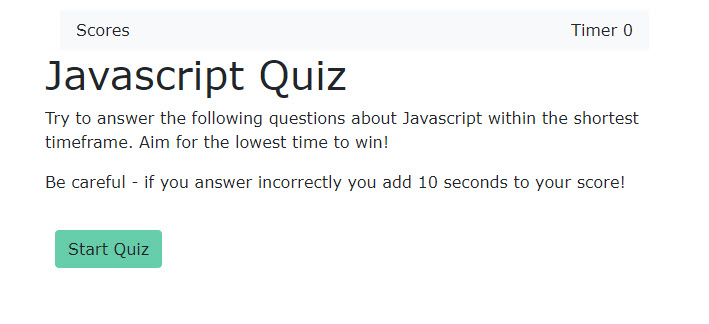
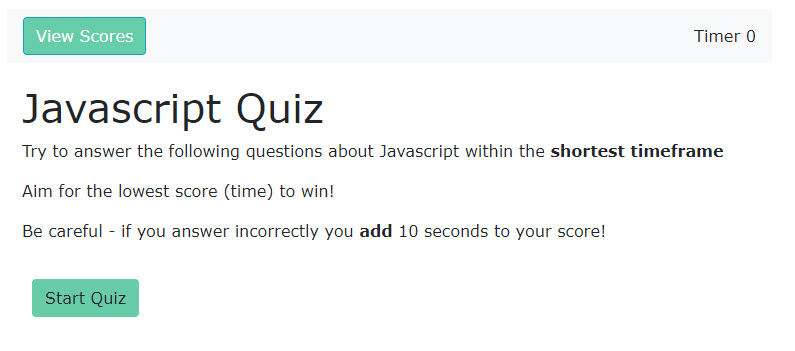
fixed up storage and play again

diff --git a/index.html b/index.html
@@ -17,91 +17,101 @@
 
 <body>
   <!-- Header Navbar -->
-  <div class="container-fluid">
-    <div class="row">
-      <div class="col">
-        <nav class="navbar navbar-expand-lg navbar-dark bg-light">
-          <a>Scores</a>
-          <li class="nav-right ml-auto">
-            <a>Timer</a> <a id="count">0</a>
-          </li>
-          </ul>
-        </nav>
-      </div>
-    </div>
-  </div>
-  <!-- Main screen -->
-
   <div class="row">
     <div class="col">
-      <div id="home">
-        <h1>Javascript Quiz</h1>
-        <p>Try to answer the following questions about Javascript within the shortest timeframe. Aim for the lowest
-          time to win!</p>
-        <p>Be careful - if you answer incorrectly you add 10 seconds to your score!</p>
-        <button id="start-btn" class="start-btn btn">Start Quiz</button>
-      </div>
+      <nav class="navbar navbar-expand-lg navbar-dark bg-light">
+        <button type="button" class="btn btn-info" id=viewScores href="#">View Scores</a></button>
+        <li class="nav-right ml-auto">
+          <a>Timer</a> <a id="count">0</a>
+        </li>
+        </ul>
+      </nav>
     </div>
   </div>
 
-
-  <!-- Questions Screen -->
-  <div id="questions">
-    <div class="row">
-      <div class="wrapper">
+  <div class="container-fluid">
+    <div class="wrapper">
+      <!-- Main screen -->
+      <div class="row">
         <div class="col">
-          <p id="question">QuestionText</p>
-          <ul id="answer" class="btn-grid">
-            <li data-index='0' id="ans-a" class="btn">Answer A</li>
-            <li data-index='1' id="ans-b" class="btn">Answer B</li>
-            <li data-index='2' id="ans-c" class="btn">Answer C</li>
-            <li data-index='3' id="ans-d" class="btn">Answer D</li>
-          </ul>
-          <div id="response"></div>
+          <div id="home">
+            <h1>Javascript Quiz</h1>
+            <p> Try to answer the following questions about Javascript within the <strong>shortest timeframe</strong></p>
+            <p> Aim for the lowest score (time) to win!</p>
+            <p>Be careful - if you answer incorrectly you <strong>add</strong> 10 seconds to your score!</p>
+            <button id="start-btn" class="start-btn btn">Start Quiz</button>
+          </div>
         </div>
       </div>
     </div>
-  </div>
-  <!-- Results Screen -->
-  <div id="results">
-    <div class="row">
+
+    <!-- Questions Screen -->
+    <div id="questions">
       <div class="wrapper">
-        <div class="col">
-          <div class="scores">
+        <div class="row">
+          <div class="col">
+            <p id="question">QuestionText</p>
+            <ul id="answer" class="btn-grid">
+              <li data-index='0' id="ans-a" class="btn">Answer A</li>
+              <li data-index='1' id="ans-b" class="btn">Answer B</li>
+              <li data-index='2' id="ans-c" class="btn">Answer C</li>
+              <li data-index='3' id="ans-d" class="btn">Answer D</li>
+            </ul>
+            <div id="response"></div>
+          </div>
+        </div>
+      </div>
+    </div>
+    <!-- Results Screen -->
+    <div id="results">
+      <div class="wrapper">
+        <div class="row">
+          <div class="col">
             <h3>You've Finished!</h3>
             <p>
-              <a> Your Final Score is:</a><a id="final-score"></a>
+              <a> Your Final Score is: </a><a id="final-score"></a>
             </p>
             <form class="form-group">
               <label for="user">Enter your name:</label>
-              <input type="text" id="userName"><span id="user-first-name"></span>
+              <input type="text" id="userName"> </input>
               <button type="button" id="save" class="btn btn-info btn-sm saveBtn">Save Score</button>
+              <button type="button" id="play-btn" class="btn btn-info btn-sm playBtn">Play Again</button>
             </form>
           </div>
         </div>
       </div>
     </div>
-  </div>
 
-  <!-- Linking JQuery -->
-  <script src="https://ajax.googleapis.com/ajax/libs/jquery/3.4.1/jquery.min.js"></script>
+    <!-- List Scores Screen -->
+    <div id="listScores">
+      <div class="wrapper">
+        <div class="row">
+          <div class="col">
+            <h3>Your Scores Are:</h3>
+            <div id="scoresList"></div>
+          </div>
+        </div>
+      </div>
+    </div>
+    <!-- Linking JQuery -->
+    <script src="https://ajax.googleapis.com/ajax/libs/jquery/3.4.1/jquery.min.js"></script>
 
-  <!-- Linking Bootstrap Javascript -->
-  <script src="https://code.jquery.com/jquery-3.5.1.slim.min.js"
-    integrity="sha384-DfXdz2htPH0lsSSs5nCTpuj/zy4C+OGpamoFVy38MVBnE+IbbVYUew+OrCXaRkfj"
-    crossorigin="anonymous"></script>
-  <script src="https://cdn.jsdelivr.net/npm/popper.js@1.16.1/dist/umd/popper.min.js"
-    integrity="sha384-9/reFTGAW83EW2RDu2S0VKaIzap3H66lZH81PoYlFhbGU+6BZp6G7niu735Sk7lN"
-    crossorigin="anonymous"></script>
-  <script src="https://stackpath.bootstrapcdn.com/bootstrap/4.5.2/js/bootstrap.min.js"
-    integrity="sha384-B4gt1jrGC7Jh4AgTPSdUtOBvfO8shuf57BaghqFfPlYxofvL8/KUEfYiJOMMV+rV"
-    crossorigin="anonymous"></script>
+    <!-- Linking Bootstrap Javascript -->
+    <script src="https://code.jquery.com/jquery-3.5.1.slim.min.js"
+      integrity="sha384-DfXdz2htPH0lsSSs5nCTpuj/zy4C+OGpamoFVy38MVBnE+IbbVYUew+OrCXaRkfj"
+      crossorigin="anonymous"></script>
+    <script src="https://cdn.jsdelivr.net/npm/popper.js@1.16.1/dist/umd/popper.min.js"
+      integrity="sha384-9/reFTGAW83EW2RDu2S0VKaIzap3H66lZH81PoYlFhbGU+6BZp6G7niu735Sk7lN"
+      crossorigin="anonymous"></script>
+    <script src="https://stackpath.bootstrapcdn.com/bootstrap/4.5.2/js/bootstrap.min.js"
+      integrity="sha384-B4gt1jrGC7Jh4AgTPSdUtOBvfO8shuf57BaghqFfPlYxofvL8/KUEfYiJOMMV+rV"
+      crossorigin="anonymous"></script>
 
-  <!-- Linking questions file  -->
-  <script src="./questions.js"></script>
+    <!-- Linking questions file  -->
+    <script src="./questions.js"></script>
 
-  <!-- Linking functionality  -->
-  <script src="./script.js"></script>
+    <!-- Linking functionality  -->
+    <script src="./script.js"></script>
 
 
 </body>

diff --git a/style.css b/style.css
@@ -5,12 +5,16 @@
   font-family: Verdana, Arial, Tahoma, Serif;
 }
 
+#header {
+  align-content: left;
+}
+
 body {
   padding: 10px;
   /* justify-content: center; */
   height: 100%;
   width: 100%;
-  align-items: center;
+  /* align-items: center; */
 }
 
 .row {
@@ -22,34 +26,37 @@ body {
   display: inline;
 }
 
+#scoresList {
+  margin-left: 40px;
+}
+
 .nav-link {
   align-items: left;
   padding: 0;
   margin: 0;
 }
 
-.container-fluid {
-  width: auto;
-  align-items: center;
-}
-
 #userName {
   margin-bottom: 20px; 
 }
 
-#answer.btn-grid {
+.col {
+  margin-bottom: 20px;
+}
+.btn-grid {
   margin: 20px;
   border-radius: 5px;
   padding: 10px;
   gap: 10px;
   box-shadow: 0 0 10px;
   display: grid;
-  width: auto;
+  width: 300px;
 }
 
 .btn {
   background-color: mediumaquamarine;
   text-align: left;
+  width: auto;
 }
 
 .start-btn {

diff --git a/readme.md b/readme.md
@@ -4,7 +4,7 @@
 
 ```
 AS A coding bootcamp student
-I WANT to take a timed quiz on JavaScript fundamentals that stores time as scores - the aim is to get the lowest time possible
+I WANT to take a timed quiz on JavaScript fundamentals that stores time as scores - the aim is to get the lowest score (based on timer + penalties) possible
 SO THAT I can gauge my progress compared to my peers
 ```
 
@@ -30,8 +30,10 @@ My quiz was developed using Javascript & JQuery.  I applied Bootstrap elements f
 
 Quiz Questions were mainly sourced from W3Schools: https://www.w3schools.com/quiztest/quiztest.asp?qtest=JS.  I did put my own twist on some of the questions.
 
-## Summary of my efforts
-I was able to generate the different sections of the quiz and the answer selections for each question.
-I am not fully satisfied with my efforts as I did not end up building the capability to retrieve scores nor a 'Play Again' button as I orginally hoped to do.
+The quiz uses a timing scoring mechanism, with incorrect answers adding + 10 seconds to the timer.  
 
-This is something I'd like to revisit as my skills improve.
+To commence play the user is required to click the 'Start Quiz' button.  This takes the user to the first question, and starts the timer (which is displayed on the right size of header).  User then selects their answer from the choices displayed, once answer is selected the next question is displayed.
+
+After the user has answered all the questions the last page shows their score and prompts for the user to enter their name, so that score can be saved.  User can also play quiz again via the 'Play Again' button
+
+User scores are stored in local storage and can be retrieved via the 'View Scores' button on the header.
